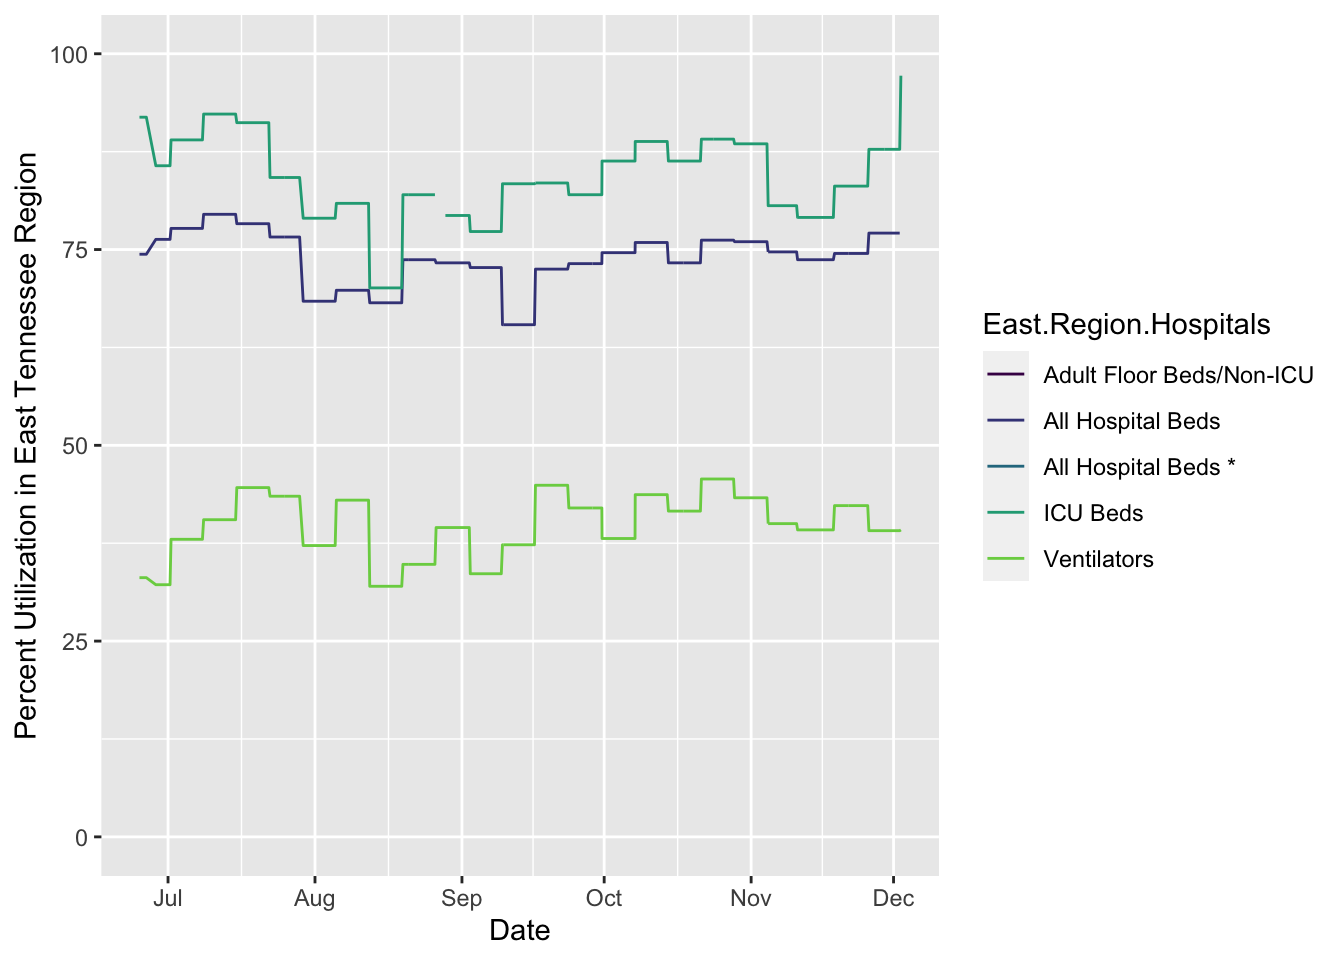
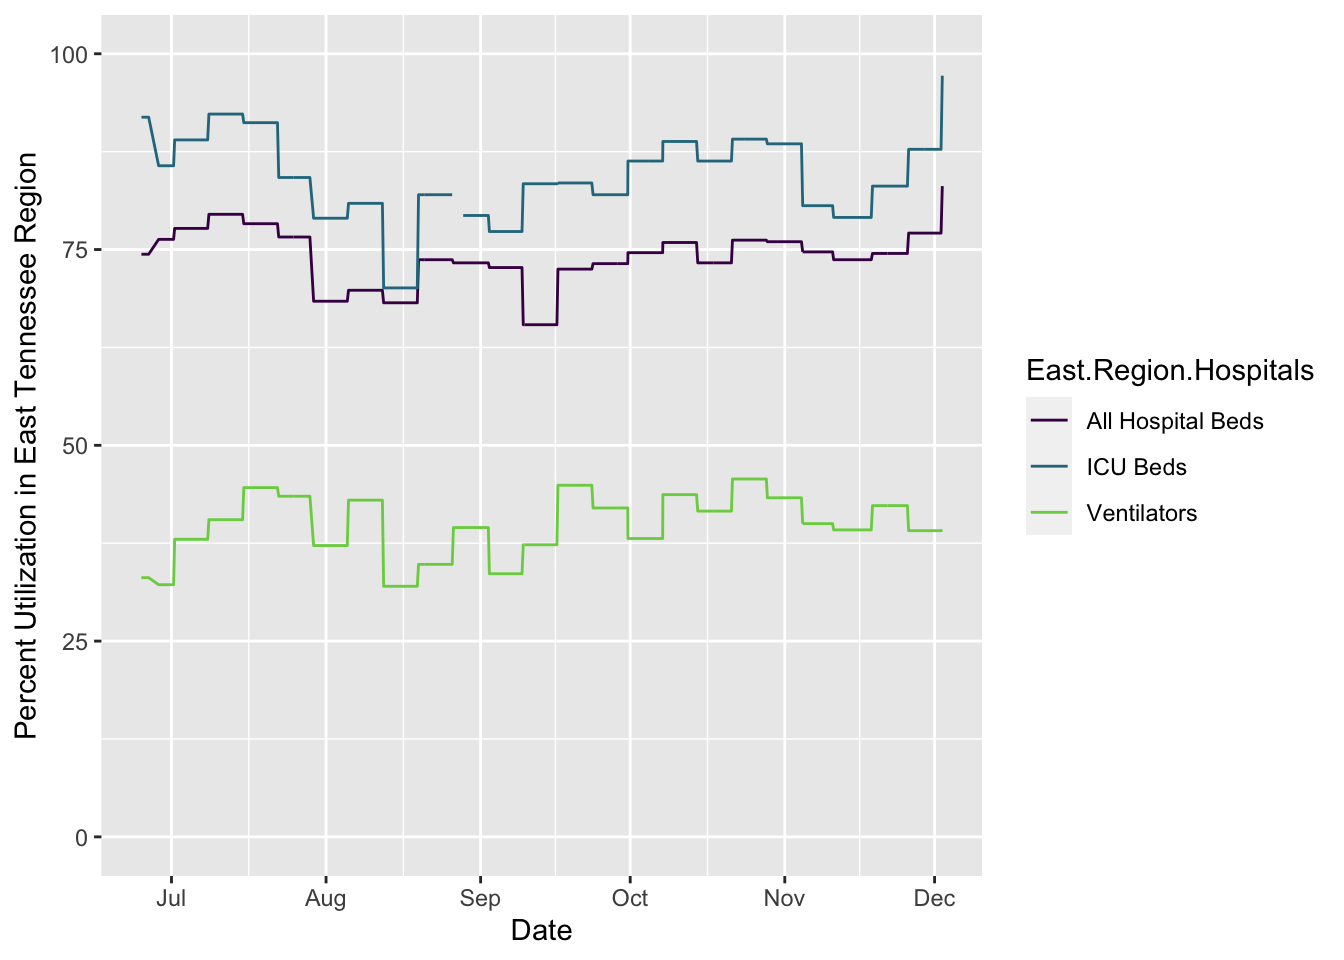
updating site

diff --git a/docs/covid.html b/docs/covid.html
@@ -437,7 +437,7 @@ $(document).ready(function () {
 <li>Info about cases at <a href="#ut">U. of Tennessee, Knoxville</a> (using public information only)</li>
 <li><a href="#webcams">Webcams</a> showing activity at local sites, though not quite at the resolution to point to mask usage or not</li>
 </ul>
-<p>The following plots are created in R using data from <a href="https://covid19datahub.io" class="uri">https://covid19datahub.io</a> (Guidotti, E., Ardia, D., (2020), “COVID-19 Data Hub”, Working paper, doi: 10.13140/RG.2.2.11649.81763), as well as information from Google and the <a href="https://www.tn.gov/health/cedep/ncov/data/downloadable-datasets.html">state of Tennessee dataset page</a> and plotting and analysis using the <code>forecast</code>, <code>ggplot2</code>, <code>reshape2</code>, and <code>dplyr</code> packages. Plots created on 2020-12-02 14:54:06. I use a seven day rolling average for most plots using the <code>geom_ma</code> function of <code>tidyquant</code>.</p>
+<p>The following plots are created in R using data from <a href="https://covid19datahub.io" class="uri">https://covid19datahub.io</a> (Guidotti, E., Ardia, D., (2020), “COVID-19 Data Hub”, Working paper, doi: 10.13140/RG.2.2.11649.81763), as well as information from Google and the <a href="https://www.tn.gov/health/cedep/ncov/data/downloadable-datasets.html">state of Tennessee dataset page</a> and plotting and analysis using the <code>forecast</code>, <code>ggplot2</code>, <code>reshape2</code>, and <code>dplyr</code> packages. Plots created on 2020-12-02 17:43:17. I use a seven day rolling average for most plots using the <code>geom_ma</code> function of <code>tidyquant</code>.</p>
 <h2 id="cases">
 Cases
 </h2>
@@ -476,7 +476,7 @@ Schooling
 <h2 id="hospitalization">
 Hospitalization
 </h2>
-<p>As of the last time the data were updated (likely 0 days ago), regional hospitals had 8 ICU beds available of 284 total (so was at 97 percent capacity), and 149 available ventilators out of 245 total, (so was at 39 percent capacity). The hospitals overall had 726 beds available of 3171 total (so was at 77 percent capacity). This is based on 19 acute care hospitals in the East TN region; based on the 14 counties these hospitals are in, these serve at least 1,235,720 people. When a line hits 100%, the local hospitals are theoretically full for that resource (for all patients, not just covid patients), though there is surge capacity on top of this. Note that these data are updated only weekly, so current conditions maybe be much better or worse than these plots show. Data on capacity from Knox County’s dashboard, data on hospitalizations and testing over time from the state data.</p>
+<p>As of the last time the data were updated (likely 0 days ago), regional hospitals had 8 ICU beds available of 284 total (so was at 97 percent capacity), and 149 available ventilators out of 245 total, (so was at 39 percent capacity). The hospitals overall had 516 beds available of 3049 total (so was at 83 percent capacity). This is based on 19 acute care hospitals in the East TN region; based on the 14 counties these hospitals are in, these serve at least 1,235,720 people. When a line hits 100%, the local hospitals are theoretically full for that resource (for all patients, not just covid patients), though there is surge capacity on top of this. Note that these data are updated only weekly, so current conditions maybe be much better or worse than these plots show. Data on capacity from Knox County’s dashboard, data on hospitalizations and testing over time from the state data.</p>
 <p><img src="covid_files/figure-html/hospitalcapacityplot-1.png" width="672" /></p>
 <p>Trends in hospitalization of covid patients over time. The vertical dotted line shows the last day with updated capacity information, when there were 8 ICU beds available (ignoring surge capacity) for people in the East Tennessee region. The seven day average is shown.</p>
 <p><img src="covid_files/figure-html/plotsD-1.png" width="672" /></p>
